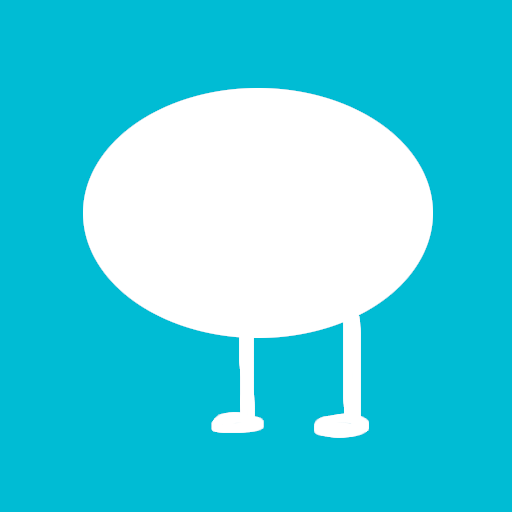
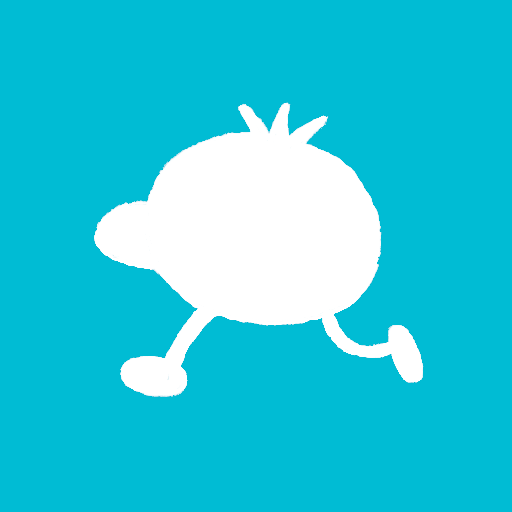
202303019 commit

Changed region(s): [[0.1562, 0.1562, 0.8438, 0.875]]

diff --git a/lib/screens/room.dart b/lib/screens/room.dart
@@ -14,29 +14,41 @@ class RoomScreen extends StatelessWidget {
     final stepsProvider = Provider.of<StepsProvider>(context);
     final userProvider = Provider.of<UserProvider>(context);
 
-    return Column(
-      crossAxisAlignment: CrossAxisAlignment.center,
-      mainAxisAlignment: MainAxisAlignment.spaceAround,
+    return Stack(
       children: [
-        StreamBuilder<QuerySnapshot<Map<String, dynamic>>>(
-          stream: stepsProvider.streamListNow(userId: userProvider.user?.id),
-          builder: (context, snapshot) {
-            int nowSteps = 0;
-            if (snapshot.hasData) {
-              for (DocumentSnapshot<Map<String, dynamic>> doc
-                  in snapshot.data!.docs) {
-                nowSteps += StepsModel.fromSnapshot(doc).stepsNum;
-              }
-            }
-            return StepsText(steps: nowSteps);
-          },
+        Column(
+          crossAxisAlignment: CrossAxisAlignment.center,
+          mainAxisAlignment: MainAxisAlignment.spaceAround,
+          children: [
+            StreamBuilder<QuerySnapshot<Map<String, dynamic>>>(
+              stream: stepsProvider.streamListNow(
+                userId: userProvider.user?.id,
+              ),
+              builder: (context, snapshot) {
+                int nowSteps = 0;
+                if (snapshot.hasData) {
+                  for (DocumentSnapshot<Map<String, dynamic>> doc
+                      in snapshot.data!.docs) {
+                    nowSteps += StepsModel.fromSnapshot(doc).stepsNum;
+                  }
+                }
+                return StepsText(steps: nowSteps);
+              },
+            ),
+            Container(),
+            const Text(
+              '歩くと何かが起こるかも？',
+              style: TextStyle(
+                color: Colors.black38,
+                fontSize: 20,
+              ),
+            ),
+          ],
         ),
-        Container(),
-        const Text(
-          '歩くと何かが起こるかも？',
-          style: TextStyle(
-            color: Colors.black38,
-            fontSize: 20,
+        Center(
+          child: Image.asset(
+            'assets/images/alk_0.png',
+            fit: BoxFit.fitWidth,
           ),
         ),
       ],
